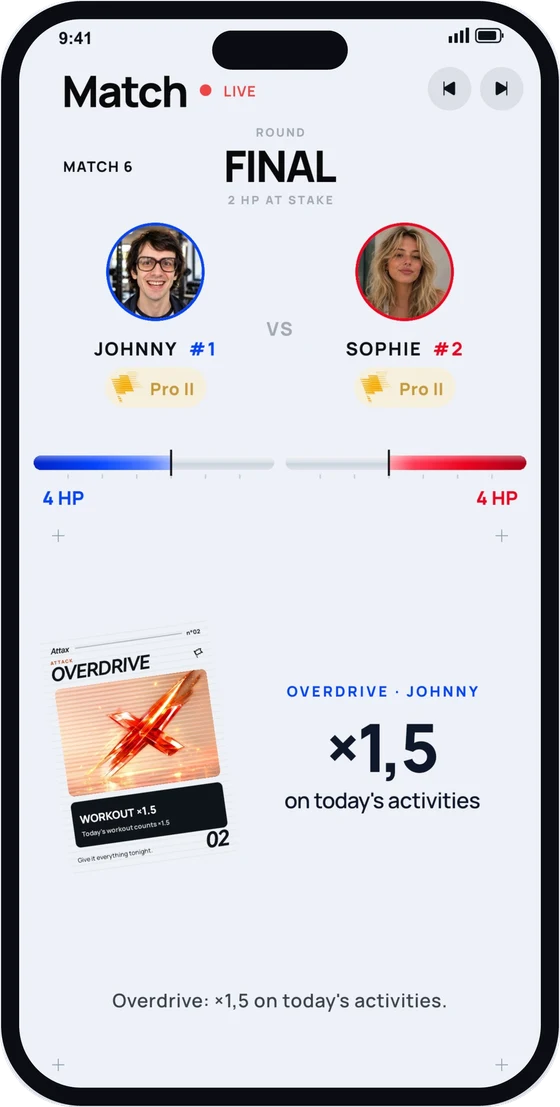
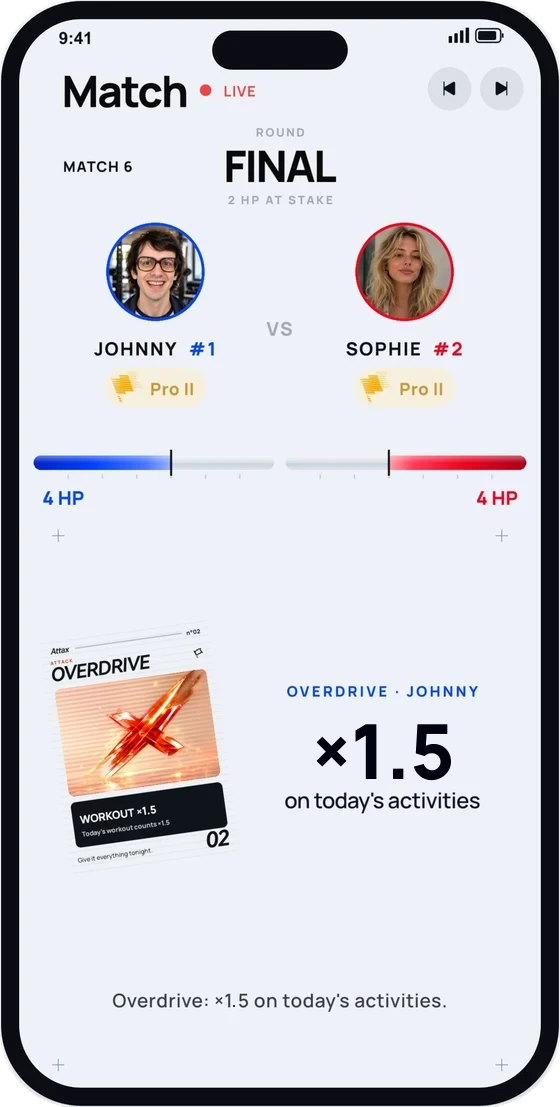
Accueil premium, passe 3 : scanlines en texture fine (vitrine sombre, bloc du match, pied de page), vitrine sombre d'un seul tenant sans teinte bleue ni couture, « Une journée » refaite en récit collant (texte qui défile à gauche, un téléphone à droite dont l'écran se fond vers la capture réelle du 

Changed region(s): [[0.5768, 0.645, 0.8196, 0.7064]]

diff --git a/src/components/home/HowItWorks.tsx b/src/components/home/HowItWorks.tsx
@@ -1,32 +1,39 @@
 "use client";
 
+import { useEffect, useRef, useState } from "react";
 import Image from "next/image";
 import { useLang, useT } from "@/lib/i18n";
 import { useInView, fadeUp, clipReveal } from "@/hooks/useInView";
 
-// « Une journée avec Attax » (version premium, 20/11) : 6 cartes arrondies, une par moment de la journée. En haut une
-// photo de campagne ou une vraie capture de l'app (chaque écran une seule fois sur la page), puis l'heure, le titre et
-// une phrase. Fond clair, filets fins, pas d'effets.
+// « Une journée avec Attax » (passe 3) : le récit de la journée piloté par le défilement. À gauche, les moments de la
+// journée (10h, 13h, la journée, 19h, 21h30) défilent ; à droite, UN téléphone collant dont l'écran se fond vers la vraie
+// capture de l'app du moment (les rounds qui se dévoilent, la carte jouée, l'activité, le round final, le classement),
+// avec la frise de la journée au-dessus. Sur téléphone, chaque moment montre sa capture sous son texte.
+// Captures : public/screens/story/<lang>/*.webp (écrans réels de l'app, barre d'état retirée).
 
-type Visual = { photo: string; pos?: string } | { app: string; panel?: boolean };
-const VISUALS: Visual[] = [
-  { photo: "/images/runsunrise.jpg", pos: "50% 60%" },        // Connecte : la course du matin, la montre au poignet
-  { photo: "/images/photo-runners.jpg", pos: "50% 40%" },     // Le match s'ouvre : un nouvel adversaire
-  { app: "card-overdrive", panel: true },                              // Joue ta carte : Overdrive (capture réelle)
-  { app: "4" },                                                // Bouge : l'écran Activité (capture réelle)
-  { photo: "/images/fatigue.jpg", pos: "50% 35%" },          // Le round final : le dernier effort de la journée
-  { app: "5" },                                                // Soir de combat : le classement après le verdict
-];
+const SHOTS = ["rounds", "card", "activity", "final", "ranking"] as const;
 
 export default function HowItWorks() {
   const t = useT();
   const h = t.howItWorks;
   const { lang } = useLang();
   const { ref: headerRef, visible: headerVisible } = useInView<HTMLDivElement>(0.1);
-  const { ref: gridRef, visible: gridVisible } = useInView<HTMLDivElement>(0.08, { oneShot: true });
+  const steps = h.steps.slice(1); // 0 = « Connecte » (une fois), présenté en introduction
+  const connect = h.steps[0];
+  const [active, setActive] = useState(0);
+  const refs = useRef<(HTMLDivElement | null)[]>([]);
+
+  // L'étape active = celle dont le texte croise le milieu de l'écran.
+  useEffect(() => {
+    const obs = new IntersectionObserver((entries) => {
+      entries.forEach((e) => { if (e.isIntersecting) setActive(Number((e.target as HTMLElement).dataset.i)); });
+    }, { rootMargin: "-45% 0px -45% 0px" });
+    refs.current.forEach((el) => el && obs.observe(el));
+    return () => obs.disconnect();
+  }, []);
 
   return (
-    <section id="how-it-works" className="p-section">
+    <section id="how-it-works" className="p-section story-section">
       <div className="p-wrap">
         <div ref={headerRef} className="p-head">
           <div>
@@ -36,29 +43,50 @@ export default function HowItWorks() {
               <div><span style={clipReveal(headerVisible, 120)}>{h.h2[1]}</span></div>
             </h2>
           </div>
-          <p className="p-body" style={{ ...fadeUp(headerVisible, 240), maxWidth: 340, whiteSpace: "pre-line" }}>{h.subtitle}</p>
+          <div className="story-connect" style={fadeUp(headerVisible, 240)}>
+            <p className="p-label" style={{ marginBottom: "0.5rem" }}>{connect.time} · {connect.title.replace(/\.$/, "")}</p>
+            <p className="p-body">{connect.body}</p>
+          </div>
         </div>
 
-        <div ref={gridRef} className="hiw-grid">
-          {h.steps.map((s, i) => {
-            const v = VISUALS[i];
-            return (
-              <article key={i} className="hiw-card" style={fadeUp(gridVisible, 80 * i)}>
-                <div className={"photo" in v ? "hiw-media" : "hiw-media hiw-media-app"}>
-                  {"photo" in v ? (
-                    <Image src={v.photo} alt="" fill sizes="(max-width: 760px) 92vw, (max-width: 1100px) 46vw, 380px" className="p-photo" style={{ objectFit: "cover", objectPosition: v.pos }} />
-                  ) : (
-                    <Image src={`/screens/app/${lang}/${v.app}.webp`} alt={s.title} width={v.panel ? 500 : 560} height={v.panel ? 400 : 1107} sizes="300px"
-                      className={v.panel ? "hiw-app-panel" : "hiw-app-phone"} />
-                  )}
-                  <span className="hiw-num">{String(i + 1).padStart(2, "0")}</span>
+        <div className="story">
+          <div className="story-steps">
+            {steps.map((s, i) => (
+              <div key={i} ref={(el) => { refs.current[i] = el; }} data-i={i} className={i === active ? "story-step is-on" : "story-step"}>
+                <p className="story-time">{s.time}</p>
+                <h3 className="story-title">{s.title}</h3>
+                <p className="p-body story-body">{s.body}</p>
+                {/* Téléphone : la capture sous le texte */}
+                <div className="story-inline">
+                  <div className="story-phone">
+                    <div className="story-screen">
+                      <Image src={`/screens/story/${lang}/${SHOTS[i]}.webp`} alt={s.title} width={522} height={1017} sizes="70vw" />
+                    </div>
+                  </div>
                 </div>
-                <p className="p-label" style={{ margin: "1.25rem 0 0.4rem" }}>{s.time}</p>
-                <h3 className="p-h3">{s.title}</h3>
-                <p className="p-body" style={{ marginTop: "0.5rem" }}>{s.body}</p>
-              </article>
-            );
-          })}
+              </div>
+            ))}
+          </div>
+
+          <div className="story-stick" aria-hidden="true">
+            <div className="story-sticky">
+              <div className="story-timeline">
+                {steps.map((s, i) => (
+                  <span key={i} className={i === active ? "is-on" : i < active ? "is-past" : undefined}>
+                    <i />{s.time}
+                  </span>
+                ))}
+              </div>
+              <div className="story-phone story-phone-lg">
+                <div className="story-screen">
+                  {steps.map((s, i) => (
+                    <Image key={i} src={`/screens/story/${lang}/${SHOTS[i]}.webp`} alt="" width={522} height={1017} sizes="340px"
+                      loading={i === 0 ? "eager" : "lazy"} style={{ opacity: i === active ? 1 : 0 }} />
+                  ))}
+                </div>
+              </div>
+            </div>
+          </div>
         </div>
       </div>
     </section>

diff --git a/src/app/globals.css b/src/app/globals.css
@@ -979,3 +979,63 @@ footer .p-h2 { font-family: var(--font-manrope), sans-serif; font-weight: 500; f
 .footer-panel .footer-top-bar a[href^="/download/ios"] { background: #fff !important; color: #0B0B0C !important; }
 .footer-panel .footer-top-bar a[href^="/download/android"] { background: rgba(255,255,255,0.08) !important; color: rgba(255,255,255,0.8) !important; }
 .footer-panel .footer-btm-bar span { color: rgba(255,255,255,0.35) !important; }
+
+/* ── Passe 3 (20/11) : scanlines en texture fine (identité de l'app), une vitrine sombre sans couture ni teinte bleue,
+   le récit de la journée en défilement collant, détails plus nets (verre, survols, micro-étiquettes). ── */
+
+/* Texture scanlines : lignes fines tous les 4 px, 4 à 5 % d'opacité, fondues vers les bords ; SOUS le contenu */
+.p-lines { isolation: isolate; }
+.p-lines::before { content: ""; position: absolute; inset: 0; z-index: -1; pointer-events: none;
+  background: repeating-linear-gradient(to bottom, rgba(255,255,255,0.045) 0 1px, transparent 1px 4px);
+  -webkit-mask-image: radial-gradient(ellipse 80% 70% at 50% 50%, #000 30%, transparent 100%); mask-image: radial-gradient(ellipse 80% 70% at 50% 50%, #000 30%, transparent 100%); }
+.p-lines-light::before { background: repeating-linear-gradient(to bottom, rgba(11,17,22,0.05) 0 1px, transparent 1px 4px); }
+.mr-section.p-lines { position: relative; }
+.footer-panel.p-lines::before { -webkit-mask-image: linear-gradient(180deg, transparent 0, #000 40%, #000 100%); mask-image: linear-gradient(180deg, transparent 0, #000 40%, #000 100%); }
+
+/* Une seule surface sombre des cartes jusqu'au Soir de combat : même fond, pas de filet, pas de lueur */
+.pm .cards-section.p-dark, .pm .fn-section.p-dark { background: #0B0B0C !important; }
+.pm .p-dark-cont::before { border-top: 0 !important; }
+.pm .p-dark-cont.p-lines::before { -webkit-mask-image: radial-gradient(ellipse 80% 90% at 50% 40%, #000 30%, transparent 100%); mask-image: radial-gradient(ellipse 80% 90% at 50% 40%, #000 30%, transparent 100%); }
+.pm .cards-section.p-lines::before { -webkit-mask-image: radial-gradient(ellipse 80% 90% at 50% 70%, #000 30%, transparent 100%); mask-image: radial-gradient(ellipse 80% 90% at 50% 70%, #000 30%, transparent 100%); }
+
+/* Une journée : récit collant */
+.pm .story-connect { max-width: 340px; }
+.pm .story { display: grid; grid-template-columns: minmax(0, 1fr) minmax(0, 0.9fr); gap: 4rem; margin-top: 1rem; }
+.pm .story-step { min-height: 72vh; display: flex; flex-direction: column; justify-content: center; padding: 2rem 0; opacity: 0.28; transition: opacity 0.5s cubic-bezier(0.16,1,0.3,1); }
+.pm .story-step.is-on { opacity: 1; }
+.pm .story-time { font-family: var(--font-mono), ui-monospace, monospace; font-size: 0.75rem; letter-spacing: 0.08em; text-transform: uppercase; color: var(--accent); margin: 0 0 0.9rem; }
+.pm .story-title { font-family: var(--font-manrope), sans-serif; font-weight: 500; font-size: clamp(1.9rem, 3.4vw, 3rem); letter-spacing: -0.035em; line-height: 1.05; color: var(--ink); margin: 0 0 1rem; }
+.pm .story-body { max-width: 30rem; font-size: 1rem; }
+.pm .story-stick { position: relative; }
+.pm .story-sticky { position: sticky; top: 12vh; height: 76vh; display: flex; flex-direction: column; align-items: center; justify-content: center; gap: 1.75rem; }
+.pm .story-timeline { display: flex; gap: 0.5rem; width: min(440px, 100%); }
+.pm .story-timeline span { flex: 1; display: flex; flex-direction: column; gap: 0.5rem; font-family: var(--font-mono), ui-monospace, monospace; font-size: 0.625rem; letter-spacing: 0.02em; line-height: 1.3; color: rgba(11,11,12,0.35); white-space: normal; transition: color 0.4s ease; }
+.pm .story-timeline i { display: block; height: 2px; border-radius: 1px; background: rgba(11,11,12,0.1); transition: background 0.4s ease; }
+.pm .story-timeline .is-past { color: rgba(11,11,12,0.55); }
+.pm .story-timeline .is-past i { background: rgba(11,11,12,0.45); }
+.pm .story-timeline .is-on { color: var(--ink); }
+.pm .story-timeline .is-on i { background: var(--ink); }
+.pm .story-phone { width: min(300px, 70vw); aspect-ratio: 522 / 1017; padding: 9px; border-radius: 46px; background: #0B0B0C; box-shadow: var(--shadow), 0 40px 80px -30px rgba(11,17,22,0.45); box-sizing: content-box; }
+.pm .story-phone-lg { width: min(320px, 26vw); }
+.pm .story-screen { position: relative; width: 100%; height: 100%; border-radius: 38px; overflow: hidden; background: #EEF1F7; }
+.pm .story-screen img { position: absolute; inset: 0; width: 100%; height: 100%; object-fit: cover; object-position: top; transition: opacity 0.6s cubic-bezier(0.4,0,0.2,1); }
+.pm .story-inline { display: none; }
+@media (max-width: 900px) {
+  .pm .story { grid-template-columns: 1fr; gap: 0; }
+  .pm .story-stick { display: none; }
+  .pm .story-step { min-height: 0; opacity: 1; padding: 2.5rem 0; border-top: 1px solid var(--line); }
+  .pm .story-inline { display: flex; justify-content: center; margin-top: 2rem; }
+  .pm .story-inline .story-screen img { position: static; }
+}
+
+/* Détails : survols discrets, nav en verre, boutons « magnétiques » (léger soulèvement) */
+.pm a[href="/download"], .pm .nav-pill-cta, .pm a[href^="/download/"], .pm a[href="#how-it-works"] { transition: transform 0.25s cubic-bezier(0.16,1,0.3,1), box-shadow 0.25s ease, background-color 0.25s ease; }
+.pm a[href="/download"]:hover, .pm .nav-pill-cta:hover, .pm a[href^="/download/"]:hover, .pm a[href="#how-it-works"]:hover { transform: translateY(-2px); box-shadow: 0 10px 24px -12px rgba(11,17,22,0.45); }
+.pm .nav-pill { background: rgba(255,255,255,0.78) !important; -webkit-backdrop-filter: saturate(1.6) blur(16px); backdrop-filter: saturate(1.6) blur(16px); border: 1px solid rgba(255,255,255,0.6); }
+.pm .by-shot, .pm .spt-panel, .pm .ft-row { transition: transform 0.35s cubic-bezier(0.16,1,0.3,1), box-shadow 0.35s ease, background-color 0.3s ease; }
+.pm .by-shot:hover { transform: translateY(-4px); box-shadow: var(--shadow); }
+.pm .ft-row:hover { background: rgba(11,11,12,0.02); }
+@media (prefers-reduced-motion: reduce) {
+  .pm .story-step, .pm .story-screen img { transition: none; }
+  .pm .by-shot:hover, .pm a:hover { transform: none !important; }
+}

diff --git a/src/components/Footer.tsx b/src/components/Footer.tsx
@@ -44,7 +44,7 @@ export default function Footer() {
           </div>
         </div>
 
-        <div className="footer-panel" style={{ position: "relative", zIndex: 2, backgroundColor: "#0B0B0C", borderRadius: "20px 20px 0 0", overflow: "hidden" }}>
+        <div className="footer-panel p-lines" style={{ position: "relative", zIndex: 2, backgroundColor: "#0B0B0C", borderRadius: "20px 20px 0 0", overflow: "hidden" }}>
           <div className="footer-attax" style={{ position: "absolute", bottom: "36px", left: "50%", transform: "translateX(-50%)", fontSize: "clamp(5rem, 13vw, 14rem)", fontWeight: 900, color: "#f0f0f0", letterSpacing: "-0.06em", lineHeight: 1, whiteSpace: "nowrap", userSelect: "none", pointerEvents: "none", fontFamily: "var(--font-jakarta), sans-serif", zIndex: 0 }}>
             ATTAX
           </div>

diff --git a/src/components/home/FightNight.tsx b/src/components/home/FightNight.tsx
@@ -11,7 +11,7 @@ export default function FightNight() {
   const { ref, visible } = useInView<HTMLDivElement>(0.12, { oneShot: true });
 
   return (
-    <section id="fight-night" className="fn-section p-section p-dark p-dark-cont" style={{ position: "relative", overflow: "hidden" }}>
+    <section id="fight-night" className="fn-section p-section p-dark p-dark-cont p-lines" style={{ position: "relative", overflow: "hidden" }}>
 
       <div ref={ref} className="fn-inner" style={{ position: "relative", maxWidth: "72rem", margin: "0 auto", display: "flex", alignItems: "center", justifyContent: "center", gap: "clamp(3.5rem, 7vw, 6.5rem)" }}>
         {/* Comme sur la version en ligne : le combat DANS l'écran d'un téléphone (même cadre que master).

diff --git a/src/components/home/CardsShowcase.tsx b/src/components/home/CardsShowcase.tsx
@@ -63,8 +63,7 @@ export default function CardsShowcase() {
   const delays = [180, 60, 300];
 
   return (
-    <section id="cards" className="cards-section p-section p-dark" style={{ position: "relative", overflow: "hidden" }}>
-      <div className="p-glow p-glow-l" aria-hidden="true" />
+    <section id="cards" className="cards-section p-section p-dark p-lines" style={{ position: "relative", overflow: "hidden" }}>
       <div style={{ position: "relative", maxWidth: "76rem", margin: "0 auto" }}>
         <div className="cards-showcase-inner" style={{ display: "flex", alignItems: "center", gap: "6rem", justifyContent: "center" }}>
           <div ref={headerRef} className="cards-showcase-text" style={{ flex: "0 0 380px", maxWidth: "380px" }}>

diff --git a/src/components/home/DailyMatch.tsx b/src/components/home/DailyMatch.tsx
@@ -133,7 +133,7 @@ export default function DailyMatch() {
   const fmt = tall ? "tall" : "wide";
 
   return (
-    <section id="daily-match" className="mr-section">
+    <section id="daily-match" className="mr-section p-lines p-lines-light">
       <div style={{ maxWidth: "76rem", margin: "0 auto" }}>
         <div ref={headerRef} style={{ marginBottom: "3.5rem" }}>
           <span style={{ ...fadeUp(headerVisible, 0), display: "block", marginBottom: "1.5rem" }} className="section-label">{m.label}</span>
